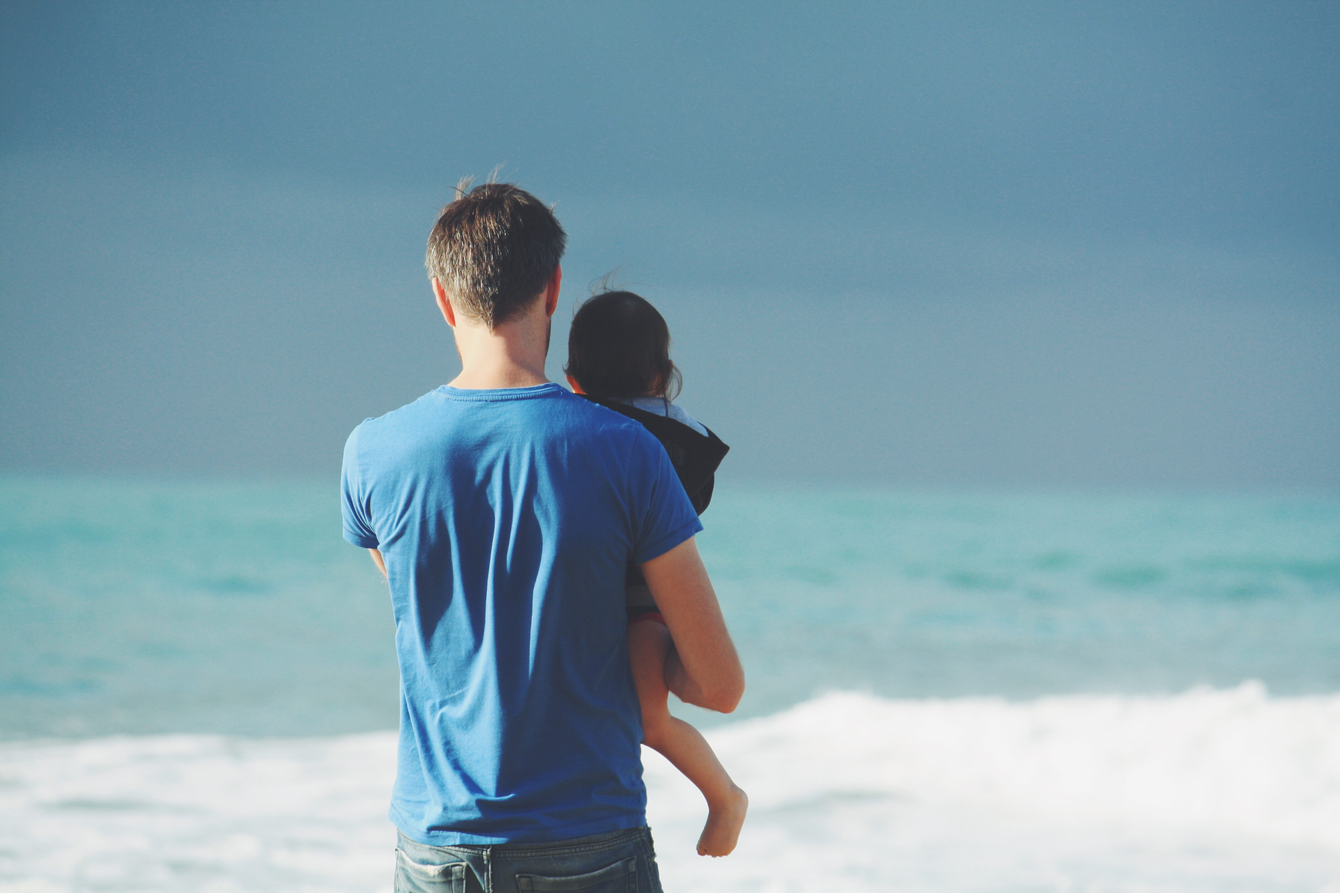
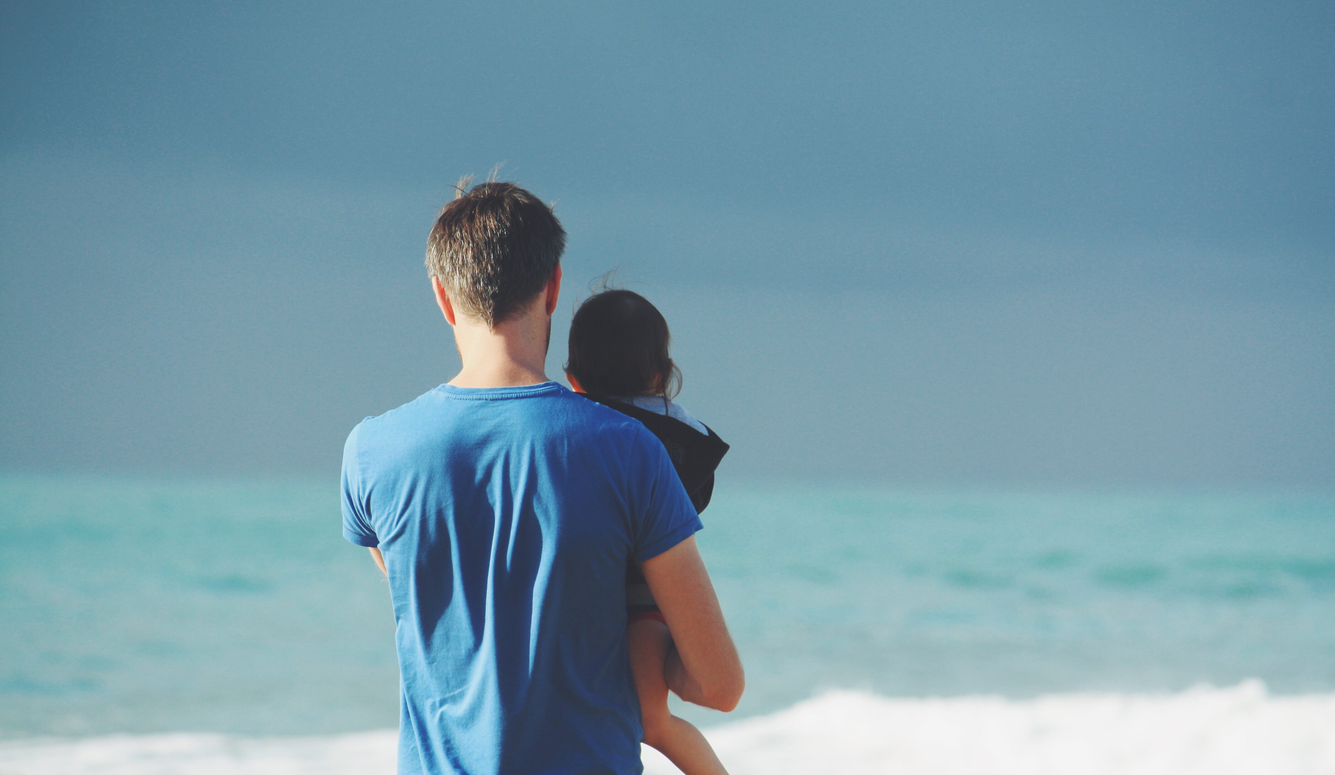
Responsive touches

diff --git a/products.html b/products.html
@@ -38,7 +38,7 @@ p {
 	.card: .card-content
 		h5 Digital Discharge
 		p ;lkajsd;lfkjsad;flkjads;lfkjasdf
---><div class="parallax-container"><div class="parallax"><img src="./img/dd.jpg"/></div><div style="position: absolute;bottom: 0px; width:100%; background:rgba(0,0,0,0.4)" class="center"><h4 class="white-text">Digital Discharge</h4></div></div><div class="row"><div class="col s12 l4"><div class="card"><div class="card-content"><p>Expert Content<i class="grey-text material-icons left">school</i></p></div></div><div class="card"><div class="card-content"><p>Educational Surveys<i class="grey-text material-icons left">tablet</i></p></div></div><div class="card"><div class="card-content"><p>Assess Risk<i class="grey-text material-icons left">timeline</i></p></div></div></div><div class="col s12 l8"><div class="card"><div class="card-content"><p>Digital Discharge provides software driven, interactive multimedia instructions to educate patients and streamline the discharge process for more efficient and effective discharge planning. Care teams save significant time and energy as the product automatically prepares a patient for discharge without any assistance or manual data entry necessary. Auditory, visual, and kinesthetic (touch) patient learning styles are supported to deliver greater patient engagement, understanding, and satisfaction. Empowering patients through self-driven, personalized education creates greater comprehension and, in turn, better outcomes. Digital Discharge has products focused on Diagnosis Related Groups for CHF, Diabetes, Pneumonia, COPD, General Wellness, Oncology (Scope ™), and Advanced Care Directives (CareChoice™).</p></div></div></div></div><div class="parallax-container"><div class="parallax"><img src="./img/cv.jpg"/></div><div style="position: absolute;bottom: 0px; width:100%; background:rgba(0,0,0,0.4)" class="center"><h4 class="white-text">CareView Dashboard</h4></div></div><div class="row"><div class="col s12 l4"><div class="card"><div class="card-content"><p>EMR Integration<i class="grey-text material-icons left">equalizer</i></p></div></div><div class="card"><div class="card-content"><p>Healthy Conversations<i class="grey-text material-icons left">question_answer</i></p></div></div><div class="card"><div class="card-content"><p>Care Team<i class="grey-text material-icons left">people</i></p></div></div></div><div class="col s12 l8"><div class="card"><div class="card-content"><p>Working in tandem with Digital Discharge, CareView Dashboard delivers patient reported outcome measures in the areas of psychosocial wellness such as support system, state of mind, medications, diet &amp; physical activity, lifestyle, and compliance warning signs. Patients are questioned in each of these areas of their life during the Digital Discharge multimedia experience. Wellopp’s trade secret algorithm evaluates patient responses and feeds care suggestions to the CareView Dashboard. The analysis uncovers a more complete view of the patient’s entire health profile, physical and psychosocial, to inform care teams of the most effective and urgent risk areas to be addressed. Care teams discover the causal factors of patient diminished health before a personal interview and are therefore more prepared for them. Care plans focused on individualized patient needs being delivered in real-time before discharge will make the discharge episode central to improving patient outcomes.</p></div></div></div></div><div class="parallax-container"><div class="parallax"><img src="./img/cm2.jpg"/></div><div style="position: absolute;bottom: 0px; width:100%; background:rgba(0,0,0,0.4)" class="center"><h4 class="white-text">Care Messenger</h4></div></div><div class="row"><div class="col s12 l4"><div class="card"><div class="card-content"><p>Web &amp; SMS<i class="grey-text material-icons left">phone</i></p></div></div><div class="card"><div class="card-content"><p>Fully Customizable<i class="grey-text material-icons left">question_answer</i></p></div></div><div class="card"><div class="card-content"><p>Care Team<i class="grey-text material-icons left">people</i></p></div></div></div><div class="col s12 l8"><div class="card"><div class="card-content"><p>Care Messenger sends personalized messages to patients by text or email for follow up post-discharge. Patients can respond to any type of question immediately through text or email and maintain an ongoing dialogue with their care team. Wellopp can analyze responses by patients to determine compliance likelihood and additional risk factors. Psychosocial questions previously asked from CareView can be analyzed post-discharge to understand how a patient’s expectations met reality for independent living. Text messages and emails can be both recorded to see if the patient has viewed them and followed on with dynamic questions related to that specific patient. Care Messenger allows the care team to have a much deeper level of connection with a patient in a medium unobtrusive to a patient’s life. The effectiveness of text message alerts and reminders compared to emails or robo-calls is daunting. Text messages have over a 95% open rate compared to emails being close to 25%. The future of patient engagement is through mobile.</p></div></div></div></div><!--+product('Digital Discharge', './img/dd.jpg', 'Blah')--><!--+product('CareView Dashboard', './img/cv.jpg', 'Blah')--><!--+product('Care Messenger', './img/cm2.jpg', 'Blah')-->
+--><div class="parallax-container hide-on-med-and-down"><div class="parallax"><img src="./img/dd.jpg"/></div><div style="position: absolute;bottom: 0px; width:100%; background:rgba(0,0,0,0.4)" class="center"><h4 class="white-text">Digital Discharge</h4></div></div><div class="parallax-container hide-on-large-only"><div class="parallax"><img src="./img/dd_small.jpg"/></div><div style="position: absolute;bottom: 0px; width:100%; background:rgba(0,0,0,0.4)" class="center"><h4 class="white-text">Digital Discharge</h4></div></div><div class="row"><div class="col s12 l4"><div class="card"><div class="card-content"><p>Expert Content<i class="grey-text material-icons left">school</i></p></div></div><div class="card"><div class="card-content"><p>Educational Surveys<i class="grey-text material-icons left">tablet</i></p></div></div><div class="card"><div class="card-content"><p>Assess Risk<i class="grey-text material-icons left">timeline</i></p></div></div></div><div class="col s12 l8"><div class="card"><div class="card-content"><p>Digital Discharge provides software driven, interactive multimedia instructions to educate patients and streamline the discharge process for more efficient and effective discharge planning. Care teams save significant time and energy as the product automatically prepares a patient for discharge without any assistance or manual data entry necessary. Auditory, visual, and kinesthetic (touch) patient learning styles are supported to deliver greater patient engagement, understanding, and satisfaction. Empowering patients through self-driven, personalized education creates greater comprehension and, in turn, better outcomes. Digital Discharge has products focused on Diagnosis Related Groups for CHF, Diabetes, Pneumonia, COPD, General Wellness, Oncology (Scope ™), and Advanced Care Directives (CareChoice™).</p></div></div></div></div><div class="parallax-container hide-on-med-and-down"><div class="parallax"><img src="./img/cv.jpg"/></div><div style="position: absolute;bottom: 0px; width:100%; background:rgba(0,0,0,0.4)" class="center"><h4 class="white-text">CareView Dashboard</h4></div></div><div class="parallax-container hide-on-large-only"><div class="parallax"><img src="./img/cv_small.jpg"/></div><div style="position: absolute;bottom: 0px; width:100%; background:rgba(0,0,0,0.4)" class="center"><h4 class="white-text">CareView Dashboard</h4></div></div><div class="row"><div class="col s12 l4"><div class="card"><div class="card-content"><p>EMR Integration<i class="grey-text material-icons left">equalizer</i></p></div></div><div class="card"><div class="card-content"><p>Healthy Conversations<i class="grey-text material-icons left">question_answer</i></p></div></div><div class="card"><div class="card-content"><p>Care Team<i class="grey-text material-icons left">people</i></p></div></div></div><div class="col s12 l8"><div class="card"><div class="card-content"><p>Working in tandem with Digital Discharge, CareView Dashboard delivers patient reported outcome measures in the areas of psychosocial wellness such as support system, state of mind, medications, diet &amp; physical activity, lifestyle, and compliance warning signs. Patients are questioned in each of these areas of their life during the Digital Discharge multimedia experience. Wellopp’s trade secret algorithm evaluates patient responses and feeds care suggestions to the CareView Dashboard. The analysis uncovers a more complete view of the patient’s entire health profile, physical and psychosocial, to inform care teams of the most effective and urgent risk areas to be addressed. Care teams discover the causal factors of patient diminished health before a personal interview and are therefore more prepared for them. Care plans focused on individualized patient needs being delivered in real-time before discharge will make the discharge episode central to improving patient outcomes.</p></div></div></div></div><div class="parallax-container hide-on-med-and-down"><div class="parallax"><img src="./img/cm2.jpg"/></div><div style="position: absolute;bottom: 0px; width:100%; background:rgba(0,0,0,0.4)" class="center"><h4 class="white-text">Care Messenger</h4></div></div><div class="parallax-container hide-on-large-only"><div class="parallax"><img src="./img/cm2_small.jpg"/></div><div style="position: absolute;bottom: 0px; width:100%; background:rgba(0,0,0,0.4)" class="center"><h4 class="white-text">Care Messenger</h4></div></div><div class="row"><div class="col s12 l4"><div class="card"><div class="card-content"><p>Web &amp; SMS<i class="grey-text material-icons left">phone</i></p></div></div><div class="card"><div class="card-content"><p>Fully Customizable<i class="grey-text material-icons left">question_answer</i></p></div></div><div class="card"><div class="card-content"><p>Care Team<i class="grey-text material-icons left">people</i></p></div></div></div><div class="col s12 l8"><div class="card"><div class="card-content"><p>Care Messenger sends personalized messages to patients by text or email for follow up post-discharge. Patients can respond to any type of question immediately through text or email and maintain an ongoing dialogue with their care team. Wellopp can analyze responses by patients to determine compliance likelihood and additional risk factors. Psychosocial questions previously asked from CareView can be analyzed post-discharge to understand how a patient’s expectations met reality for independent living. Text messages and emails can be both recorded to see if the patient has viewed them and followed on with dynamic questions related to that specific patient. Care Messenger allows the care team to have a much deeper level of connection with a patient in a medium unobtrusive to a patient’s life. The effectiveness of text message alerts and reminders compared to emails or robo-calls is daunting. Text messages have over a 95% open rate compared to emails being close to 25%. The future of patient engagement is through mobile.</p></div></div></div></div><!--+product('Digital Discharge', './img/dd.jpg', 'Blah')--><!--+product('CareView Dashboard', './img/cv.jpg', 'Blah')--><!--+product('Care Messenger', './img/cm2.jpg', 'Blah')-->
 </div><footer class="page-footer grey lighten-3"><div class="container"><div class="row"><div style="padding: 15px" class="col s12 l6"><img src="./img/logo_grey.svg" width="150"><!--br--><!--label Wellness = Opportunity--><div class="social"><a href=""><img src="./img/facebook-logo-button.svg"></a><a href=""><img src="./img/twitter-logo-button.svg"></a><a href=""><img src="./img/linkedin-logo-button.svg"></a></div></div><div class="col s6 l3"><h5>Links</h5><ul><li><a href="#">Home</a></li><li><a href="#">Products</a></li><li><a href="#">Blog</a></li></ul></div><div class="col s6 l3"><h5>Company</h5><ul><li><a href="#">About</a></li><li><a href="#">Team</a></li><li><a href="#">Careers</a></li></ul></div><!--.col.s6.l3h5 Social
 ul
 	li: a(href='#') Twitter

diff --git a/index.html b/index.html
@@ -1,4 +1,4 @@
-<!DOCTYPE html><html><head><title>Wellopp</title><link rel="stylesheet" href="https://fonts.googleapis.com/icon?family=Material+Icons"><link rel="stylesheet" href="./css/main.css"><link rel="stylesheet" href="https://fonts.googleapis.com/css?family=Raleway:300|PT+Sans" type="text/css"><meta name="viewport" content="width=device-width, initial-scale=1.0"></head><body><section id="splash" style="width:100%;height:100vh; background-image:url(&quot;./img/splash.jpg&quot;); background-size:cover; background-position: 80% 50%"><nav class="tall transparent"><div class="container"><div class="nav-wrapper"><a href="index.html" class="brand-logo"><img src="./img/logo.svg"></a><a href="#" data-activates="side-nav" class="button-collapse"><i class="material-icons">menu</i></a><ul id="top-nav" class="right hide-on-med-and-down"><li><a href="index.html">Home</a></li><li><a href="products.html">Products</a></li><li><a href="about.html">About</a></li><li><a href="team.html">Team</a></li></ul><ul id="side-nav" class="side-nav"><li><a href="index.html">Home</a></li><li><a href="products.html">Products</a></li><li><a href="about.html">About</a></li><li><a href="team.html">Team</a></li></ul></div></div></nav><div class="container"><div class="rotate hide-on-small-and-down"><p class="flow-text">Wellness =&nbsp;</p><p class="flow-text"><span class="word orange-text">Opportunity</span><span class="word pink-text text-lighten-2">Positivity</span><span class="word blue-text">Optimism</span><span class="word purple-text">Pride</span><span class="word green-text">Success</span><span class="word red-text">Confidence</span></p><!--.card-panel(style='background:rgba(0,0,0,0.1)')--></div><div class="row"><div class="col l8 m8 s12"><div class="flow-header blue-text text-darken-4">We are a world leader in collection and analysis of social determinants of health.</div></div></div></div><section id="stats" style="position:absolute;bottom: 50px; width: 100%"><div class="container"><div class="row hide-on-med-and-down"><div class="col m3 s6"><div class="card center"><div class="chart"><div data-percent="10227" data-bar-color="transparent" data-track-color="transparent" class="percentage"><span>10227</span></div><p>Surveys Taken</p></div></div></div><div class="col m3 s6"><div class="card center"><div class="chart"><div data-percent="97" data-bar-color="green" class="percentage"><span>97</span><sup>%</sup></div><p>Patient Satisfaction</p></div></div></div><div class="col m3 s6"><div class="card center"><div class="chart"><div data-percent="75" data-bar-color="orange" class="percentage"><span>75</span><sup>%</sup></div><p>Kittens Saved</p></div></div></div><div class="col m3 s6"><div class="card center"><div class="chart"><div data-percent="46" class="percentage"><span>46</span><sup>%</sup></div><p>Readmissions reduced</p></div></div></div></div><div class="row hide-on-large-only"><div class="col s12"><div class="card center"><span>10,227 Surveys Taken</span><div class="progress transparent"></div></div></div><div class="col s12"><div class="card center"><span>97% Patient Satisfaction</span><div class="progress transparent"><div style="width:97%" class="determinate green"></div></div></div></div><div class="col s12"><div class="card center"><span>75% Kittens Saved</span><div class="progress transparent"><div style="width:75%" class="determinate orange"></div></div></div></div><div class="col s12"><div class="card center"><span>46% Readmissions Reduced</span><div class="progress transparent"><div style="width:46%" class="determinate red"></div></div></div></div></div></div></section></section><section style="width: 100%;padding: 60px 0px 80px 0px"><div class="container"><div class="row"><div class="col l6 s12"><h4>Better Outcomes, Lower Costs</h4><p class="flow-text">We are improving outcomes by engaging each patient with empathy, uncovering their most effective path to wellness.</p></div><div class="col l6 s12 center"><iframe width="460" height="260" style="max-width:100%" src="https://www.youtube.com/embed/EZLcrk0e_9w?autoplay=0&amp;rel=0&amp;showinfo=0&amp;start=131" frameborder="0" allowfullscreen></iframe></div></div></div></section><!--background-image: url(http://website.wellopp.com/wp-content/uploads/2014/03/bg1a.jpg);--><!--background: -webkit-linear-gradient(45deg,#8a2a82 0,#e05c5c 100%);--><section style="width: 100%; background-image: url(./img/sky.jpg); background-size: cover; background-position: 50% 80%; padding: 60px 0px 80px 0px" class="white-text"><div class="container"><div class="row"><div class="col s4"><div class="card hoverable"><div class="card-image"><img src="./img/dd_small.jpg"></div></div></div><div class="col s4"><div class="card hoverable"><div class="card-image"><img src="./img/cv_small.jpg"></div></div></div><div class="col s4"><div class="card hoverable"><div class="card-image"><img src="./img/cm2_small.jpg"></div></div></div></div><div class="row center"><h4>Our products work where you do</h4><p class="flow-text">From risk analysis, to patient education, to post-acute care, our products cover the entire care continuum. We're crafting a human-focused experience across a variety of settings and devices.</p></div><div class="row center"><a href="./products.html" class="btn btn-large center">All Products							</a></div></div></section><section style="width: 100%;padding: 60px 0px 80px 0px" class="grey lighten-3"><div class="container"><div class="row center"><h4>Patients and Care Managers <i style="vertical-align: middle" class="material-icons pink-text">favorite</i> Digital Discharge</h4></div><!--.row.col.l4.s12
+<!DOCTYPE html><html><head><title>Wellopp</title><link rel="stylesheet" href="https://fonts.googleapis.com/icon?family=Material+Icons"><link rel="stylesheet" href="./css/main.css"><link rel="stylesheet" href="https://fonts.googleapis.com/css?family=Raleway:300|PT+Sans" type="text/css"><meta name="viewport" content="width=device-width, initial-scale=1.0"></head><body><section id="splash" style="width:100%;height:100vh; background-image:url(&quot;./img/splash.jpg&quot;); background-size:cover; background-position: 80% 50%"><nav class="tall transparent"><div class="container"><div class="nav-wrapper"><a href="index.html" class="brand-logo"><img src="./img/logo.svg"></a><a href="#" data-activates="side-nav" class="button-collapse"><i class="material-icons">menu</i></a><ul id="top-nav" class="right hide-on-med-and-down"><li><a href="index.html">Home</a></li><li><a href="products.html">Products</a></li><li><a href="about.html">About</a></li><li><a href="team.html">Team</a></li></ul><ul id="side-nav" class="side-nav"><li><a href="index.html">Home</a></li><li><a href="products.html">Products</a></li><li><a href="about.html">About</a></li><li><a href="team.html">Team</a></li></ul></div></div></nav><div class="container"><div class="rotate hide-on-small-and-down"><p class="flow-text">Wellness =&nbsp;</p><p class="flow-text"><span class="word orange-text">Opportunity</span><span class="word pink-text text-lighten-2">Positivity</span><span class="word blue-text">Optimism</span><span class="word purple-text">Pride</span><span class="word green-text">Success</span><span class="word red-text">Confidence</span></p><!--.card-panel(style='background:rgba(0,0,0,0.1)')--></div><div class="row"><div class="col l8 m8 s12"><div class="flow-header blue-text text-darken-4">We are a world leader in collection and analysis of social determinants of health.</div></div></div></div><section id="stats" style="position:absolute;bottom: 50px; width: 100%"><div class="container"><div class="row hide-on-med-and-down"><div class="col m3 s6"><div class="card center"><div class="chart"><div data-percent="10227" data-bar-color="transparent" data-track-color="transparent" class="percentage"><span>10227</span></div><p>Surveys Taken</p></div></div></div><div class="col m3 s6"><div class="card center"><div class="chart"><div data-percent="97" data-bar-color="green" class="percentage"><span>97</span><sup>%</sup></div><p>Patient Satisfaction</p></div></div></div><div class="col m3 s6"><div class="card center"><div class="chart"><div data-percent="75" data-bar-color="orange" class="percentage"><span>75</span><sup>%</sup></div><p>Kittens Saved</p></div></div></div><div class="col m3 s6"><div class="card center"><div class="chart"><div data-percent="46" class="percentage"><span>46</span><sup>%</sup></div><p>Readmissions reduced</p></div></div></div></div><div style="position: absolute; bottom: -40px" class="row hide-on-large-only"><div class="col s12"><div class="card center"><span>10,227 Surveys Taken</span><div class="progress transparent"></div></div></div><div class="col s12"><div class="card center"><span>97% Patient Satisfaction</span><div class="progress transparent"><div style="width:97%" class="determinate green"></div></div></div></div><div class="col s12"><div class="card center"><span>75% Kittens Saved</span><div class="progress transparent"><div style="width:75%" class="determinate orange"></div></div></div></div><div class="col s12"><div class="card center"><span>46% Readmissions Reduced</span><div class="progress transparent"><div style="width:46%" class="determinate red"></div></div></div></div></div></div></section></section><section style="width: 100%;padding: 60px 0px 80px 0px"><div class="container"><div class="row"><div class="col l6 s12"><h4>Better Outcomes, Lower Costs</h4><p class="flow-text">We are improving outcomes by engaging each patient with empathy, uncovering their most effective path to wellness.</p></div><div class="col l6 s12 center"><iframe width="460" height="260" style="max-width:100%" src="https://www.youtube.com/embed/EZLcrk0e_9w?autoplay=0&amp;rel=0&amp;showinfo=0&amp;start=131" frameborder="0" allowfullscreen></iframe></div></div></div></section><!--background-image: url(http://website.wellopp.com/wp-content/uploads/2014/03/bg1a.jpg);--><!--background: -webkit-linear-gradient(45deg,#8a2a82 0,#e05c5c 100%);--><section style="width: 100%; background-image: url(./img/sky.jpg); background-size: cover; background-position: 50% 80%; padding: 60px 0px 80px 0px" class="white-text"><div class="container"><div class="row"><div class="col s4"><div class="card hoverable"><div class="card-image"><img src="./img/dd_small.jpg"></div></div></div><div class="col s4"><div class="card hoverable"><div class="card-image"><img src="./img/cv_small.jpg"></div></div></div><div class="col s4"><div class="card hoverable"><div class="card-image"><img src="./img/cm2_small.jpg"></div></div></div></div><div class="row center"><h4>Our products work where you do</h4><p class="flow-text">From risk analysis, to patient education, to post-acute care, our products cover the entire care continuum. We're crafting a human-focused experience across a variety of settings and devices.</p></div><div class="row center"><a href="./products.html" class="btn btn-large center">All Products							</a></div></div></section><section style="width: 100%;padding: 60px 0px 80px 0px" class="grey lighten-3"><div class="container"><div class="row center"><h4>Patients and Care Managers <i style="vertical-align: middle" class="material-icons pink-text">favorite</i> Digital Discharge</h4></div><!--.row.col.l4.s12
 	.card-panel Look! I just got the notification... It's like a friend from afar looking out for me :)
 		br
 		label - Louise, 71 Year Old Female Patient

diff --git a/about.html b/about.html
@@ -1,4 +1,4 @@
-<!DOCTYPE html><html><head><title>Wellopp</title><link rel="stylesheet" href="https://fonts.googleapis.com/icon?family=Material+Icons"><link rel="stylesheet" href="./css/main.css"><link rel="stylesheet" href="https://fonts.googleapis.com/css?family=Raleway:300|PT+Sans" type="text/css"><meta name="viewport" content="width=device-width, initial-scale=1.0"></head><body><nav class="tall transparent"><div class="container"><div class="nav-wrapper"><a href="index.html" class="brand-logo"><img src="./img/logo.svg"></a><a href="#" data-activates="side-nav" class="button-collapse"><i class="material-icons">menu</i></a><ul id="top-nav" class="right hide-on-med-and-down"><li><a href="index.html">Home</a></li><li><a href="products.html">Products</a></li><li><a href="about.html">About</a></li><li><a href="team.html">Team</a></li></ul><ul id="side-nav" class="side-nav"><li><a href="index.html">Home</a></li><li><a href="products.html">Products</a></li><li><a href="about.html">About</a></li><li><a href="team.html">Team</a></li></ul></div></div></nav><div class="container"><div class="parallax-container"><div class="parallax"><img src="./img/promedica.jpg"></div><div style="position: absolute;bottom: 0px; width:100%; background:rgba(0,0,0,0.4)" class="center"><h4 class="white-text">About us</h4></div></div><p>Lorem ipsum dolor sit amet, consectetur adipiscing elit, sed do eiusmod tempor incididunt ut labore et dolore magna aliqua. Ut enim ad minim veniam, quis nostrud exercitation ullamco laboris nisi ut aliquip ex ea commodo consequat. Duis aute irure dolor in reprehenderit in voluptate velit esse cillum dolore eu fugiat nulla pariatur. Excepteur sint occaecat cupidatat non proident, sunt in culpa qui officia deserunt mollit anim id est laborum.</p><p>Sed ut perspiciatis unde omnis iste natus error sit voluptatem accusantium doloremque laudantium, totam rem aperiam, eaque ipsa quae ab illo inventore veritatis et quasi architecto beatae vitae dicta sunt explicabo. Nemo enim ipsam voluptatem quia voluptas sit aspernatur aut odit aut fugit, sed quia consequuntur magni dolores eos qui ratione voluptatem sequi nesciunt. Neque porro quisquam est, qui dolorem ipsum quia dolor sit amet, consectetur, adipisci velit, sed quia non numquam eius modi tempora incidunt ut labore et dolore magnam aliquam quaerat voluptatem. Ut enim ad minima veniam, quis nostrum exercitationem ullam corporis suscipit laboriosam, nisi ut aliquid ex ea commodi consequatur? Quis autem vel eum iure reprehenderit qui in ea voluptate velit esse quam nihil molestiae consequatur, vel illum qui dolorem eum fugiat quo voluptas nulla pariatur?</p></div><footer class="page-footer grey lighten-3"><div class="container"><div class="row"><div style="padding: 15px" class="col s12 l6"><img src="./img/logo_grey.svg" width="150"><!--br--><!--label Wellness = Opportunity--><div class="social"><a href=""><img src="./img/facebook-logo-button.svg"></a><a href=""><img src="./img/twitter-logo-button.svg"></a><a href=""><img src="./img/linkedin-logo-button.svg"></a></div></div><div class="col s6 l3"><h5>Links</h5><ul><li><a href="#">Home</a></li><li><a href="#">Products</a></li><li><a href="#">Blog</a></li></ul></div><div class="col s6 l3"><h5>Company</h5><ul><li><a href="#">About</a></li><li><a href="#">Team</a></li><li><a href="#">Careers</a></li></ul></div><!--.col.s6.l3h5 Social
+<!DOCTYPE html><html><head><title>Wellopp</title><link rel="stylesheet" href="https://fonts.googleapis.com/icon?family=Material+Icons"><link rel="stylesheet" href="./css/main.css"><link rel="stylesheet" href="https://fonts.googleapis.com/css?family=Raleway:300|PT+Sans" type="text/css"><meta name="viewport" content="width=device-width, initial-scale=1.0"></head><body><nav class="tall transparent"><div class="container"><div class="nav-wrapper"><a href="index.html" class="brand-logo"><img src="./img/logo.svg"></a><a href="#" data-activates="side-nav" class="button-collapse"><i class="material-icons">menu</i></a><ul id="top-nav" class="right hide-on-med-and-down"><li><a href="index.html">Home</a></li><li><a href="products.html">Products</a></li><li><a href="about.html">About</a></li><li><a href="team.html">Team</a></li></ul><ul id="side-nav" class="side-nav"><li><a href="index.html">Home</a></li><li><a href="products.html">Products</a></li><li><a href="about.html">About</a></li><li><a href="team.html">Team</a></li></ul></div></div></nav><div class="container"><div class="parallax-container hide-on-med-and-down"><div class="parallax"><img src="./img/promedica.jpg"></div><div style="position: absolute;bottom: 0px; width:100%; background:rgba(0,0,0,0.4)" class="center"><h4 class="white-text">About us</h4></div></div><div class="parallax-container hide-on-large-only"><div class="parallax"><img src="./img/promedica_small.jpg"></div><div style="position: absolute;bottom: 0px; width:100%; background:rgba(0,0,0,0.4)" class="center"><h4 class="white-text">About us</h4></div></div><p>Lorem ipsum dolor sit amet, consectetur adipiscing elit, sed do eiusmod tempor incididunt ut labore et dolore magna aliqua. Ut enim ad minim veniam, quis nostrud exercitation ullamco laboris nisi ut aliquip ex ea commodo consequat. Duis aute irure dolor in reprehenderit in voluptate velit esse cillum dolore eu fugiat nulla pariatur. Excepteur sint occaecat cupidatat non proident, sunt in culpa qui officia deserunt mollit anim id est laborum.</p><p>Sed ut perspiciatis unde omnis iste natus error sit voluptatem accusantium doloremque laudantium, totam rem aperiam, eaque ipsa quae ab illo inventore veritatis et quasi architecto beatae vitae dicta sunt explicabo. Nemo enim ipsam voluptatem quia voluptas sit aspernatur aut odit aut fugit, sed quia consequuntur magni dolores eos qui ratione voluptatem sequi nesciunt. Neque porro quisquam est, qui dolorem ipsum quia dolor sit amet, consectetur, adipisci velit, sed quia non numquam eius modi tempora incidunt ut labore et dolore magnam aliquam quaerat voluptatem. Ut enim ad minima veniam, quis nostrum exercitationem ullam corporis suscipit laboriosam, nisi ut aliquid ex ea commodi consequatur? Quis autem vel eum iure reprehenderit qui in ea voluptate velit esse quam nihil molestiae consequatur, vel illum qui dolorem eum fugiat quo voluptas nulla pariatur?</p></div><footer class="page-footer grey lighten-3"><div class="container"><div class="row"><div style="padding: 15px" class="col s12 l6"><img src="./img/logo_grey.svg" width="150"><!--br--><!--label Wellness = Opportunity--><div class="social"><a href=""><img src="./img/facebook-logo-button.svg"></a><a href=""><img src="./img/twitter-logo-button.svg"></a><a href=""><img src="./img/linkedin-logo-button.svg"></a></div></div><div class="col s6 l3"><h5>Links</h5><ul><li><a href="#">Home</a></li><li><a href="#">Products</a></li><li><a href="#">Blog</a></li></ul></div><div class="col s6 l3"><h5>Company</h5><ul><li><a href="#">About</a></li><li><a href="#">Team</a></li><li><a href="#">Careers</a></li></ul></div><!--.col.s6.l3h5 Social
 ul
 	li: a(href='#') Twitter
 	li: a(href='#') LinkedIn

diff --git a/css/main.css b/css/main.css
@@ -6198,6 +6198,13 @@ nav {
     color: darkblue;
     line-height: 90px; }
 
+.parallax-container {
+  height: 450px; }
+
+@media only screen and (max-width: 992px) {
+  .parallax-container {
+    height: 250px; } }
+
 @media only screen and (min-width: 601px) {
   nav.tall {
     margin-bottom: 0px;
@@ -6292,9 +6299,6 @@ footer ul li a {
 @media only screen and (max-width: 600px) {
   #splash .rotate {
     padding: 0px 0px 0px 0px; } }
-
-.parallax-container {
-  height: 450px; }
 
 .social {
   padding-top: 1em; }
